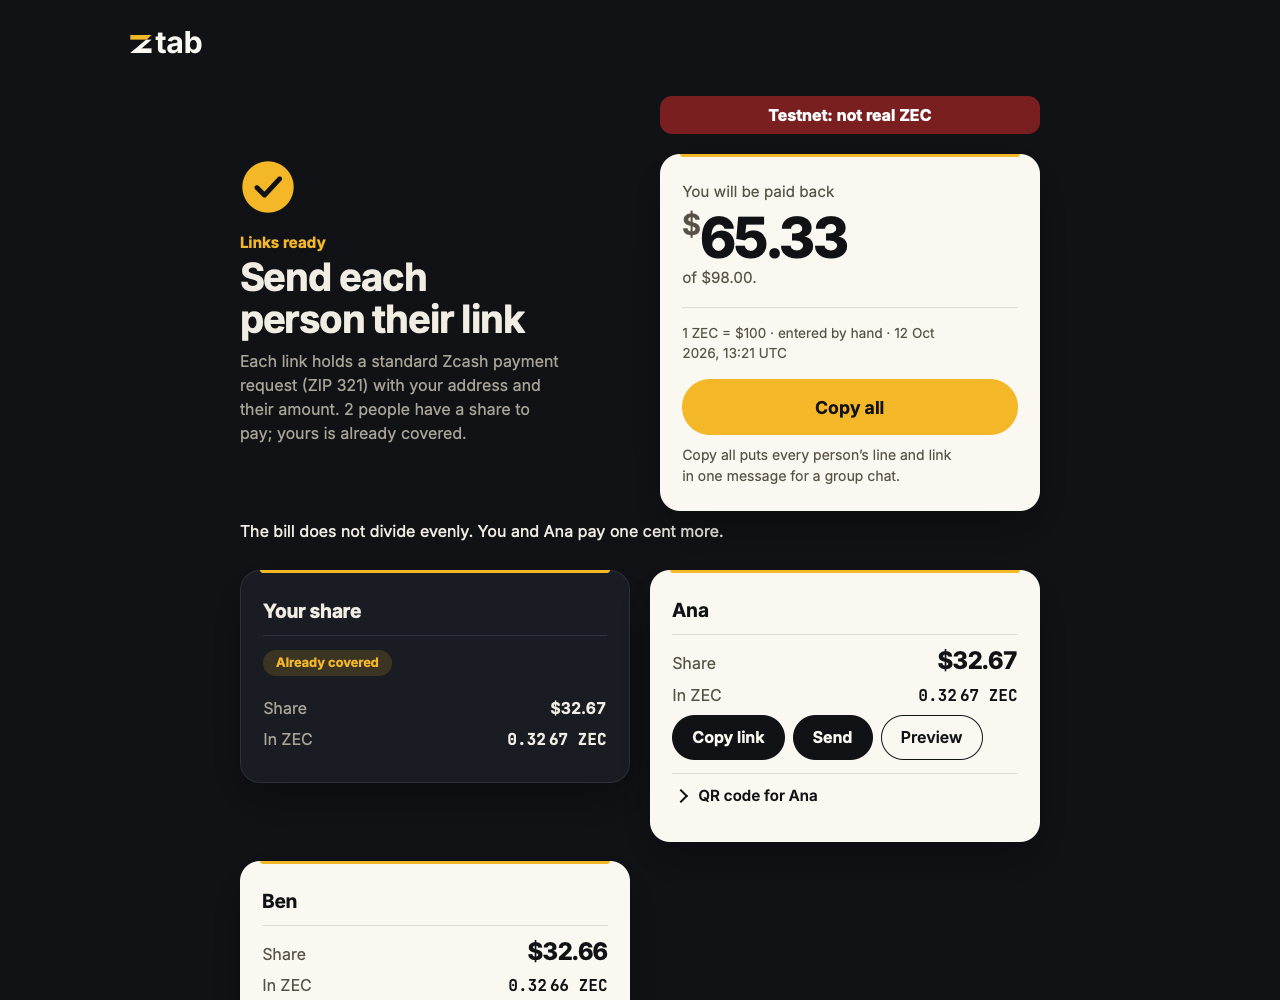
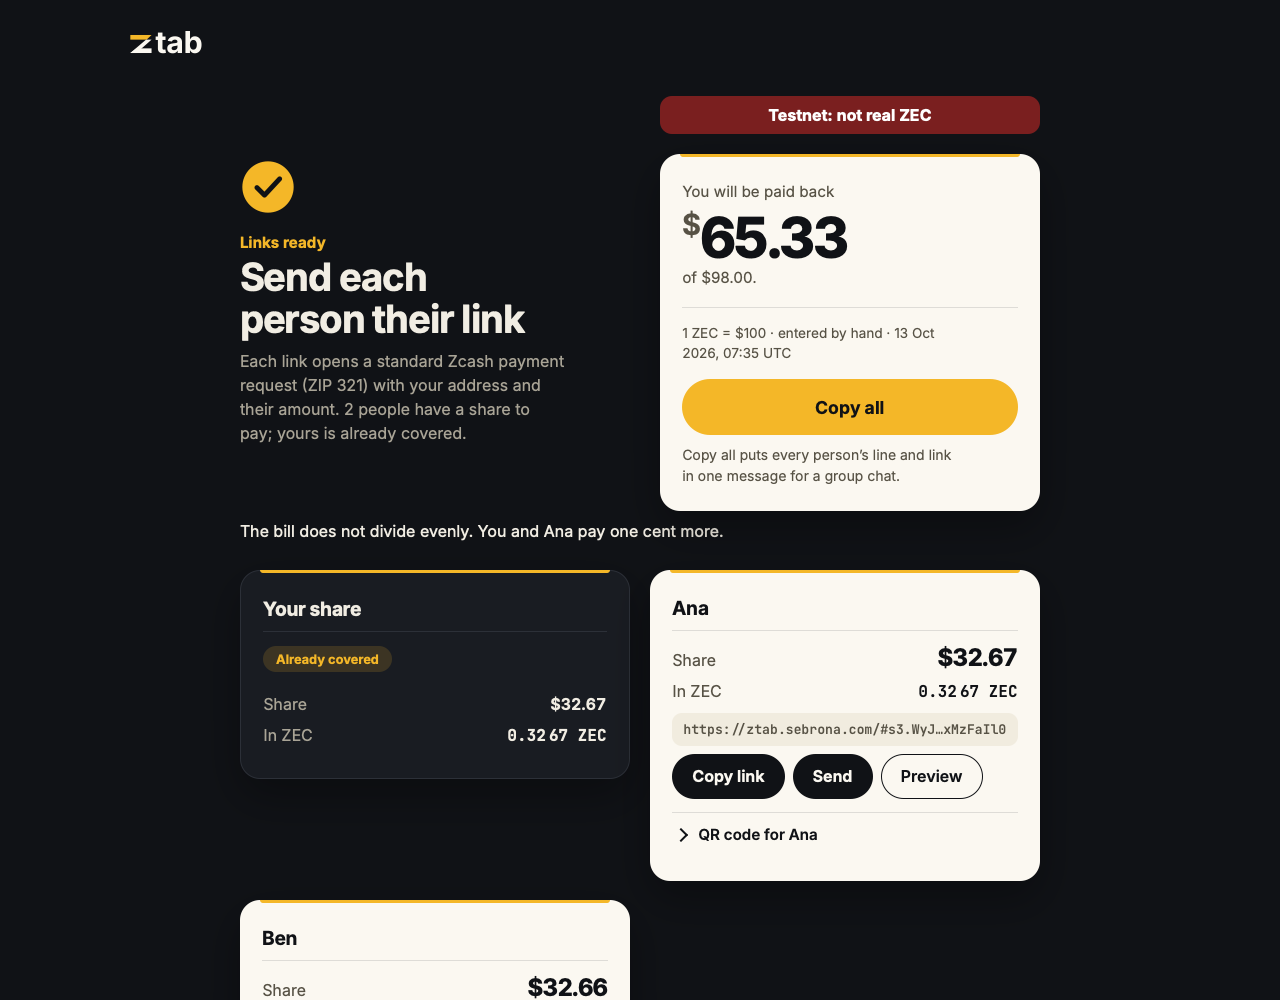
docs: refresh README captures from submitted release

diff --git a/docs/images/README.md b/docs/images/README.md
@@ -1,22 +1,28 @@
 # Screenshot provenance
 
-`tab-share.png` and `tab-pay.png` were captured by Maximus from the local production
-build of `073abf9d146eed3fa48f17c11c5849a14c2dc05c` on 12 October 2026 at 13:21 UTC,
-served on 127.0.0.1. This is the release candidate with the guided create flow and
-the polished pay, table, organiser and demo screens. Playwright WebKit 26.5, light
-appearance and reduced motion: `tab-share.png` is the Links ready screen at
-1280×1000 and `tab-pay.png` is Ana's pay page at 390×844, each the first screen
-without scrolling. The native share API was not replaced; WebKit exposes it, so
-Send is present. No Send action was invoked.
+`tab-share.png` and `tab-pay.png` were captured by Jarvis from
+https://ztab.sebrona.com/ on 13 October 2026 at 07:35 UTC.
+This was a documentation update after submission, using the submitted
+release tree: public commit `df10bff51047978db5f753e47a2625ce624bd0cc`,
+deployed as `703a5d5f464c94bbaeda3c7c77a277b3954f96d3`.
 
-The fixture is USD 98 “Večera, Friday”, organiser Miro, participants Ana and
-Ben, and a manually entered example rate of USD 100 per ZEC, entered through the
-guided steps. The recipient is the repository's public testnet Sapling fixture.
-The testnet banner is intentional. No wallet was opened and no funds were sent.
+Playwright WebKit 26.5, light appearance, reduced motion and en-US locale:
+Links ready at 1280×1000; Ana's pay page at 390×844. These are browser
+viewport captures, not photographs of a physical laptop or phone. The
+native share API was unchanged; Send was not pressed.
 
-Chromium 151.0.7922.34 and WebKit 26.5 both loaded only HTML and five local
-assets (script, stylesheet and three fonts, including extended Latin) on each
-screen. Local storage, session storage and cookies remained empty with Remember
-off. No page errors. The images were recompressed losslessly: a fully opaque
-alpha channel was dropped and no pixel changed.
-The screenshots show a bill split by total; they do not illustrate all modes.
+Fixture: USD 98 “Večera, Friday”, organiser Miro, participants Ana and Ben,
+a manually entered example rate of USD 100 per ZEC, and the repository's
+public testnet Sapling address. The testnet strip remains visible. No
+wallet was opened and no payment was made.
+
+Chromium 151.0.7922.34 repeated the same flow. The organiser visit loaded
+HTML, the app script and stylesheet, three local fonts and one landing
+image (seven requests). The pay visit loaded HTML, script, stylesheet and
+three local fonts (six requests). All requests were to the site's own
+origin; no Coinbase lookup or viewing-key scan was requested. Local storage,
+session storage and cookies were empty. Neither engine reported a page error.
+
+Images were recompressed losslessly, removing only a fully opaque alpha
+channel. No UI text or pixels were retouched. The screenshots show splitting
+by total and do not illustrate every supported mode.

diff --git a/README.md b/README.md
@@ -24,7 +24,8 @@ wallet handles the payment.
 <p align="center"><img src="docs/images/tab-pay.png" width="320" alt="Ana's pay page on a phone: her share, then the recipient and caution above Open in my wallet"></p>
 
 *Screenshots use public testnet data and a manually entered example rate.
-They show build `073abf9` with the Cut ribbon brand on 12 October 2026;
+Captured on 13 October 2026 from the submitted release (`df10bff`),
+with the Cut ribbon brand;
 no wallet was opened and no funds were sent.*
 
 ## How it works
